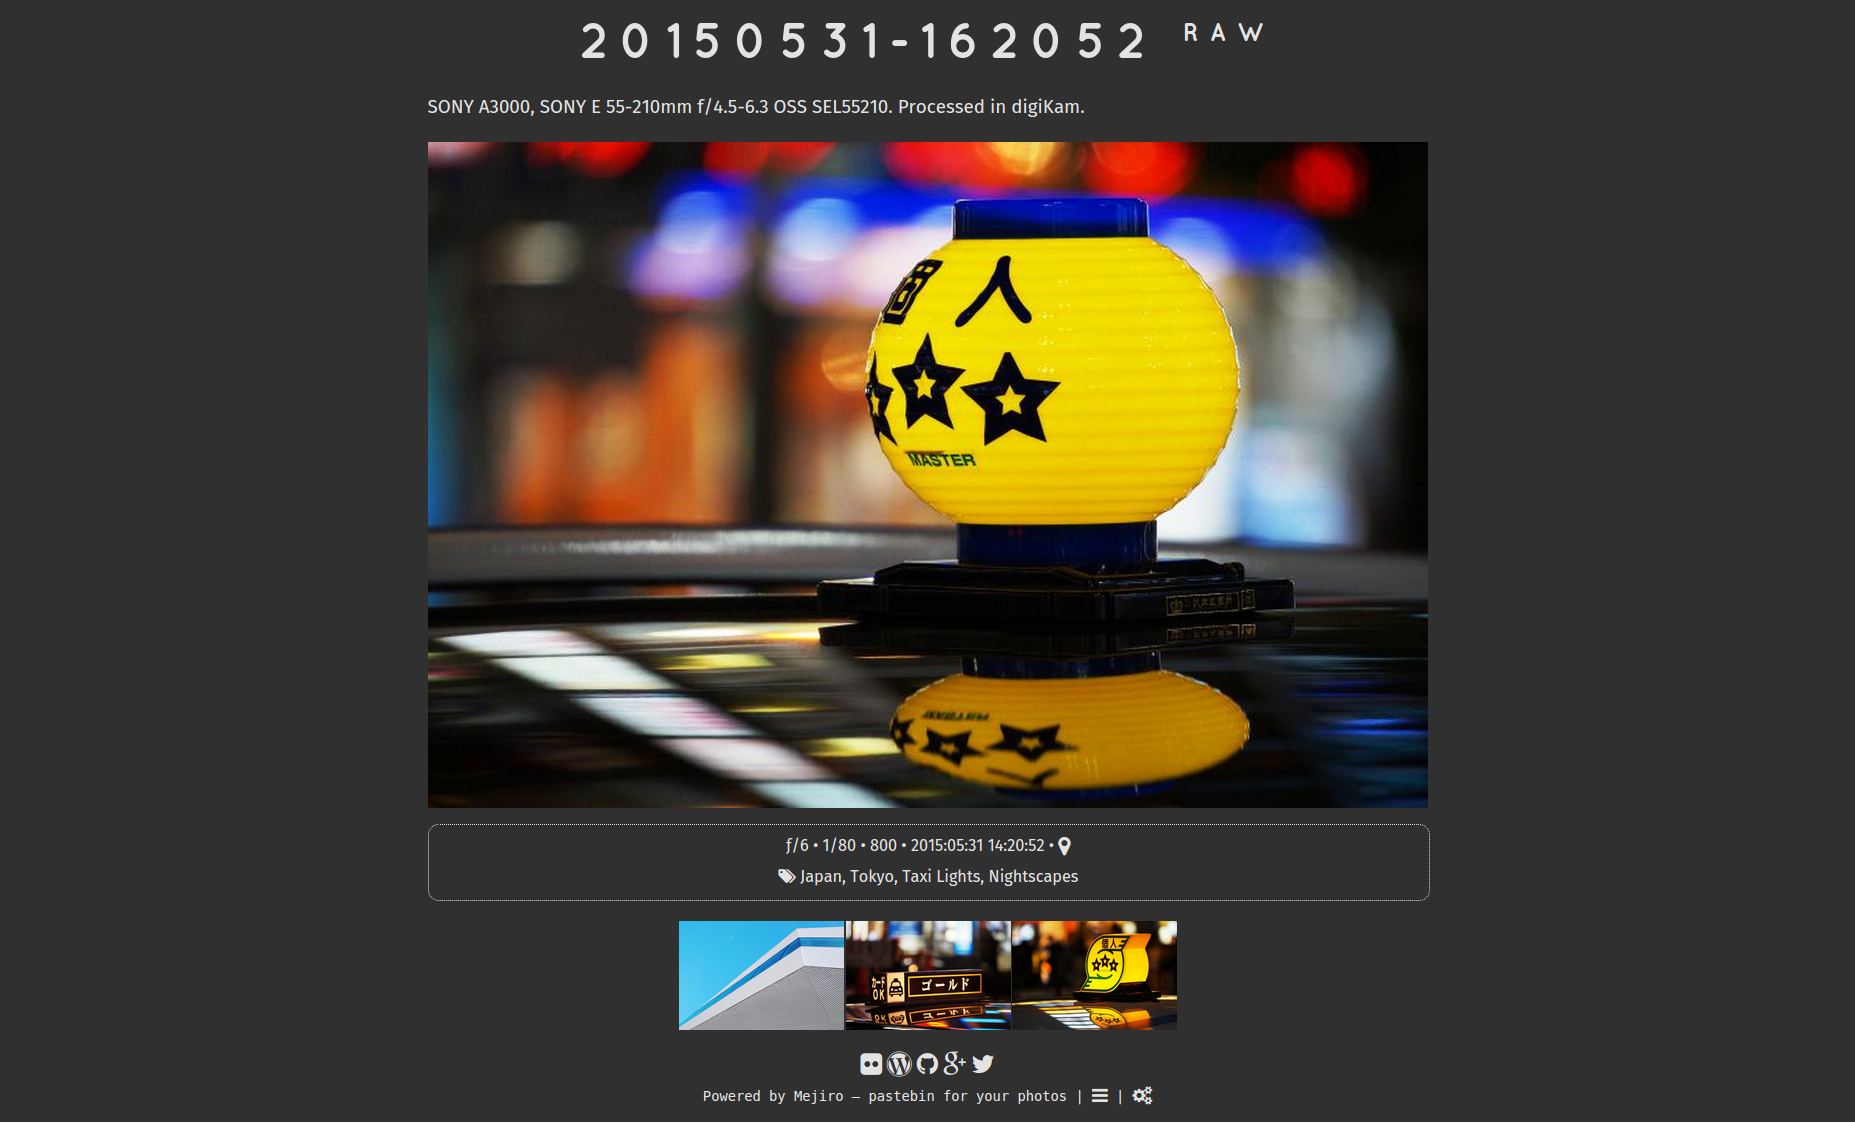
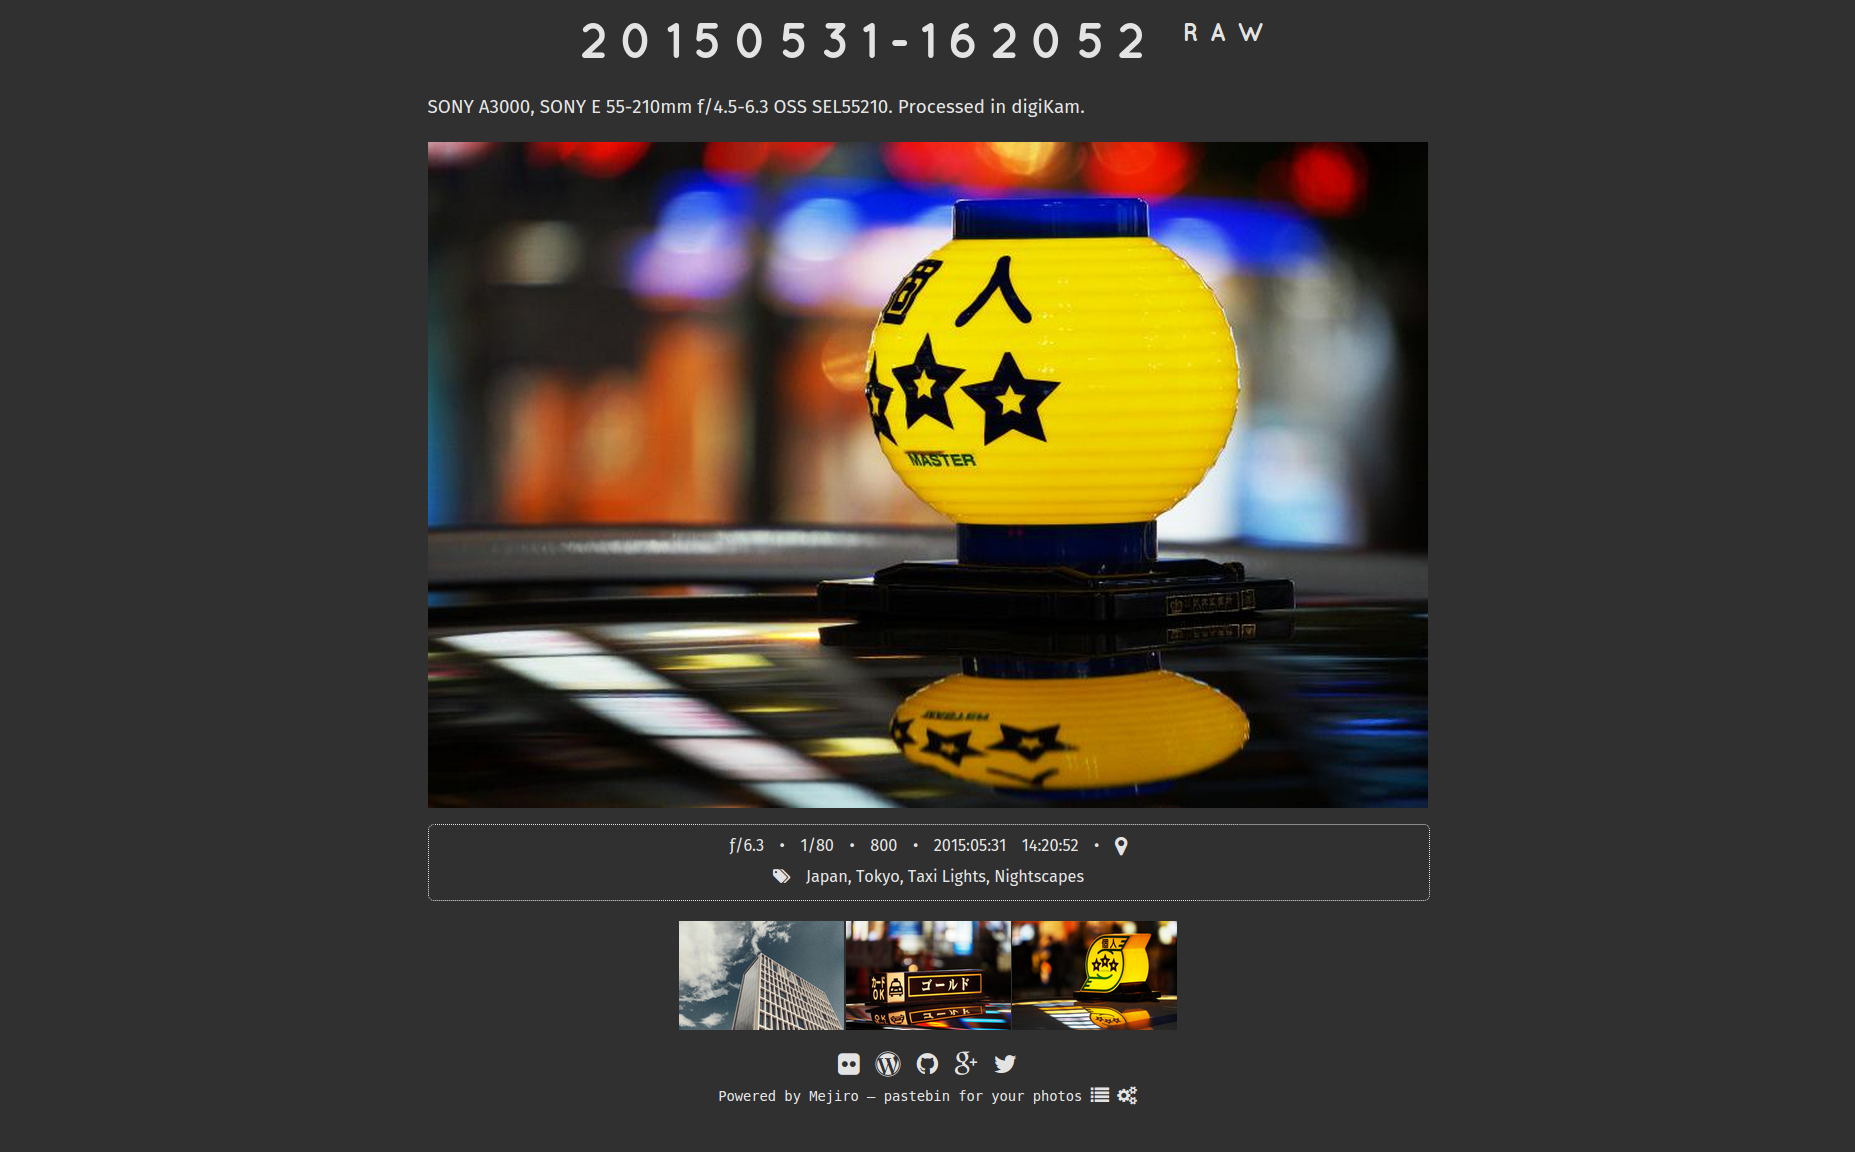
Minor cosmetic tweaks :lipstick:

Changed region(s): [[0.2151, 0.0312, 0.7682, 0.9973], [0.2765, 0.187, 0.3073, 0.2805], [0.5838, 0.0312, 0.6146, 0.0623]]

diff --git a/index.php b/index.php
@@ -57,7 +57,6 @@
 		#content { margin: auto; width: 800px; color: #e3e3e3; }
 		.text { text-align: center; padding: 0px; color: inherit; float: left; }
 		.center { height: auto; text-align: center; padding: 0px; margin-left: auto; margin-right: auto;}
-		.spaced { text-align: center; word-spacing: 9px;}
 		.footer { text-align: center; font-family: monospace; font-size: 11px; }
 	</style>
 
@@ -318,10 +317,10 @@
 
 		// Disable the Map link if the photo has no geographical coordinates
 		if (empty($gps[lat])) {
-			      echo "<p class='box'>".$fnumber.$exposuretime.$iso.$datetime."<br /><i class='fa fa-tags'></i> ".$keyword."</p>";
+			      echo "<p class='box'><span style='word-spacing:9px'>".$fnumber.$exposuretime.$iso.$datetime."<br /><i class='fa fa-tags'></i> </span>".$keyword."</p>";
 		}
 		else {
-		        echo "<p class='box'>".$fnumber.$exposuretime.$iso.$datetime.$map_url."<br /><i class='fa fa-tags'></i> ".$keyword."</p>";
+		        echo "<p class='box'><span style='word-spacing:9px'>".$fnumber.$exposuretime.$iso.$datetime.$map_url."<br /><i class='fa fa-tags'></i> </span>".$keyword."</p>";
 		}
 
 		// Disable the Next link if this is the last photo
@@ -340,9 +339,9 @@
 	// Show link box
 	if ($link_box) {
             $array_length = count($links);
-            echo '<div class="spaced">';
+            echo '<div class="center">';
             for($i = 0; $i < $array_length; $i++) {
-            echo '<a href="'.$links[$i][0].'"><i class="'.$links[$i][1].'"></i></a> ';
+            echo '<span style="word-spacing:9px"><a href="'.$links[$i][0].'"><i class="'.$links[$i][1].'"></i></a> </span>';
             }
             echo "</div>";
 	}
